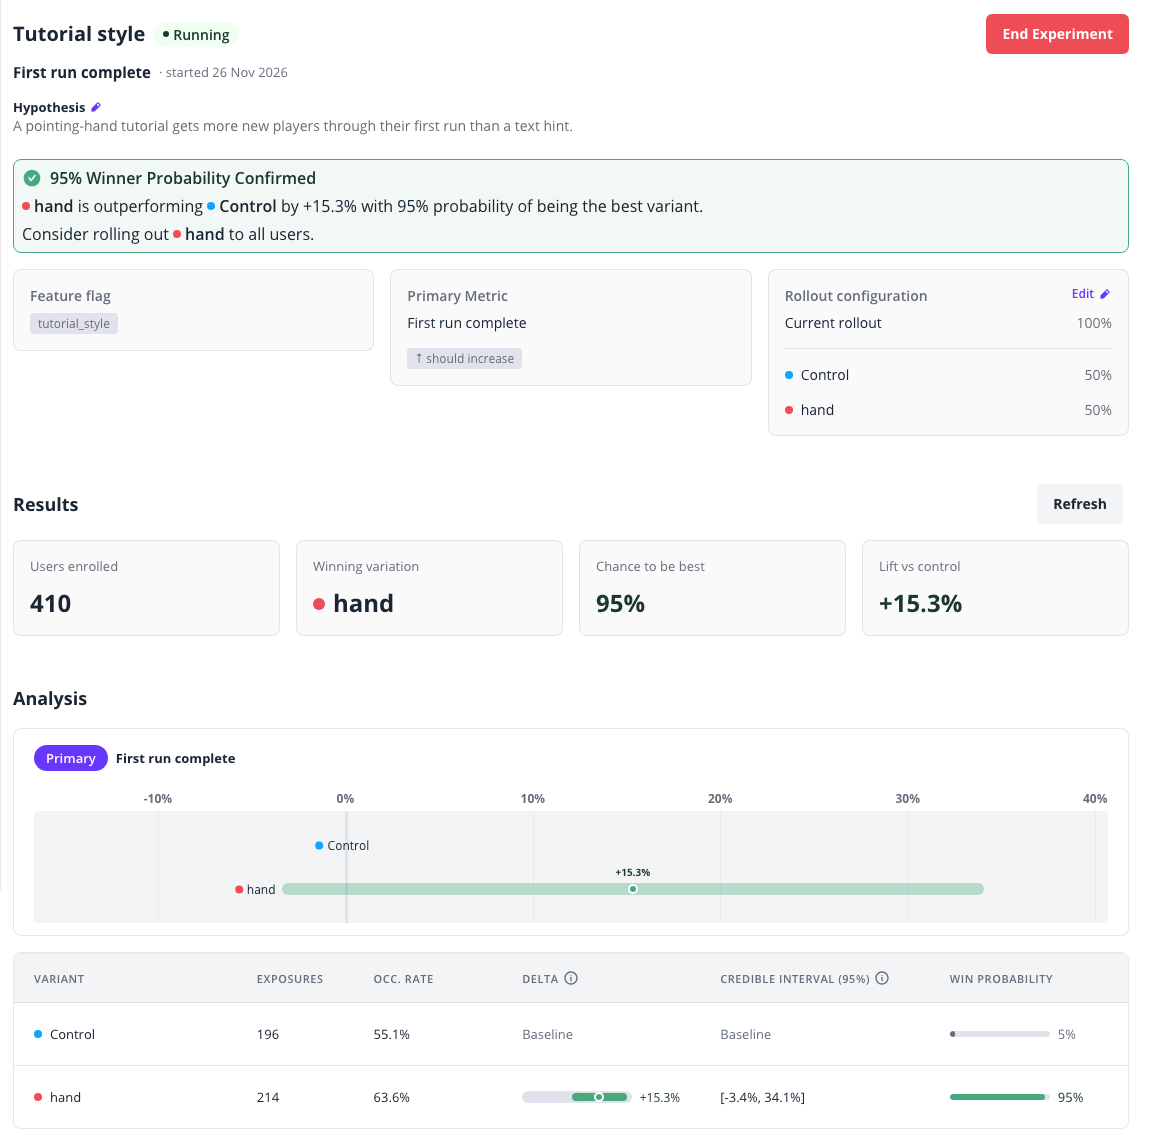
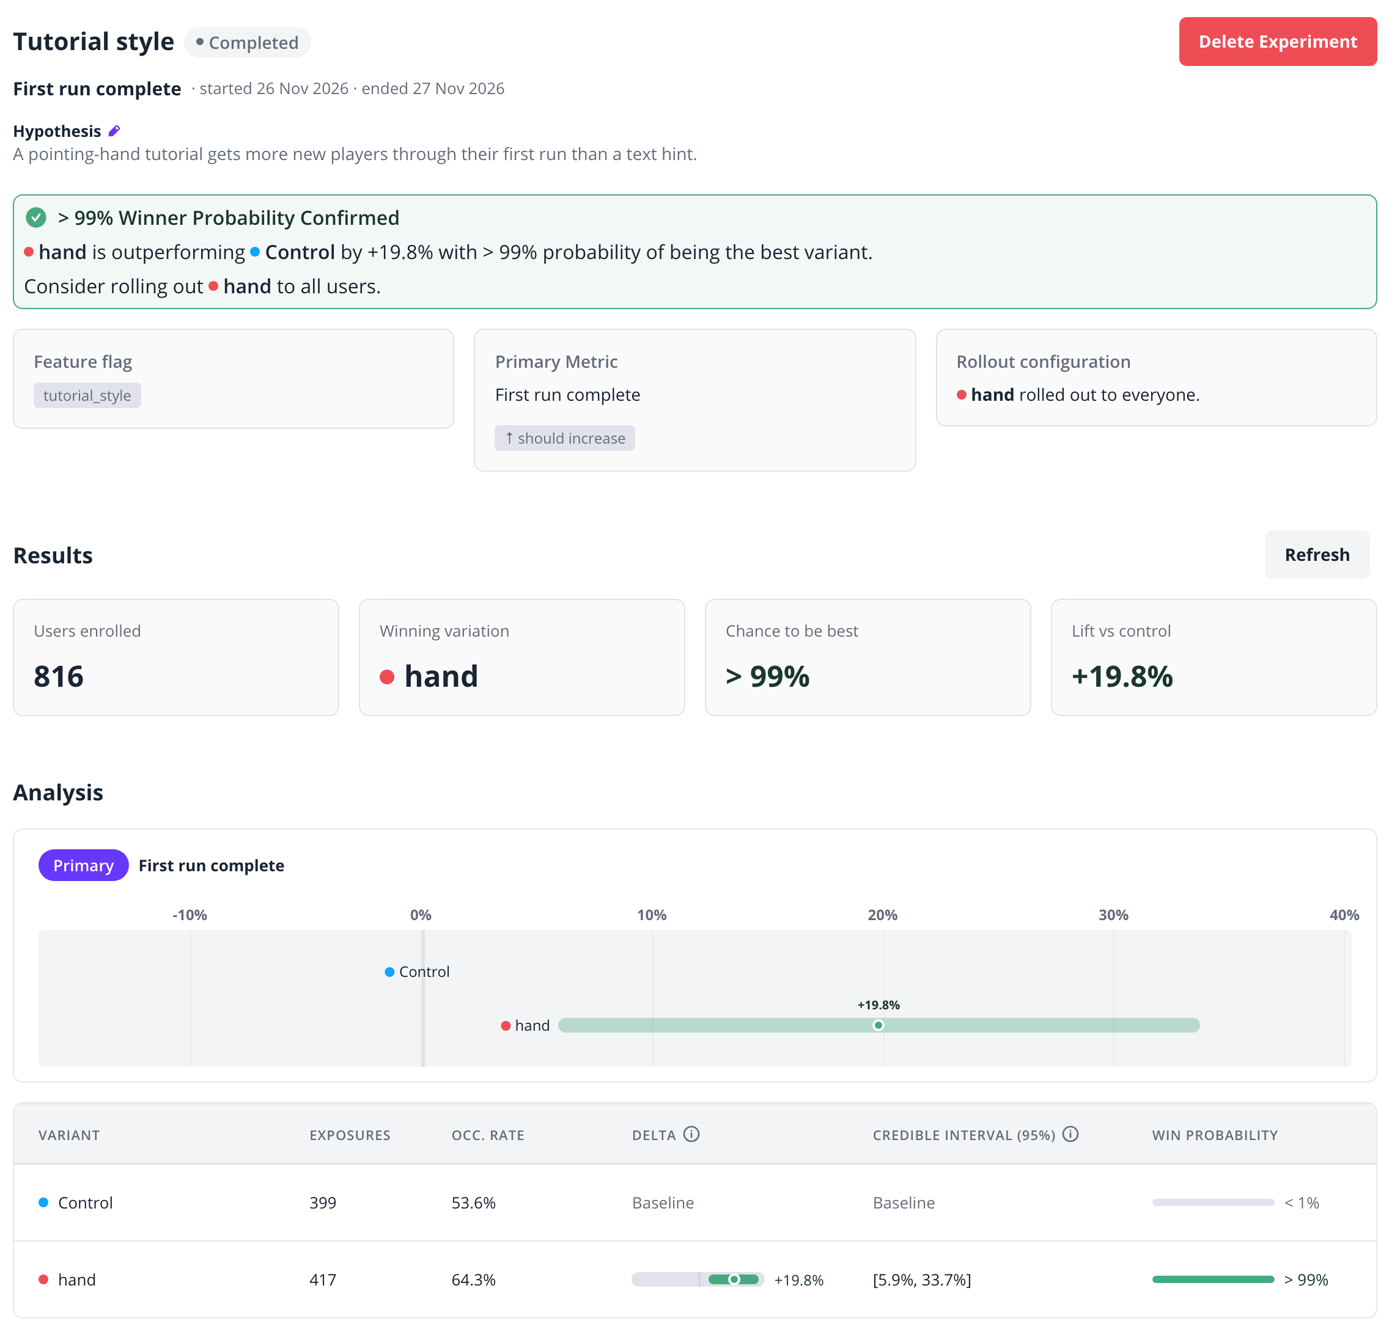
Ship the tutorial experiment under a pre-set rule (agent run), completed-experiment screenshot, updated captions and numbers

diff --git a/site/index.html b/site/index.html
@@ -155,8 +155,8 @@ flagsmith.TrackEvent(<span class="tok-s">"first_run_complete"</span>);</code></p
       <p>Exposures are recorded only for enrolled players, and each one is sent once. Events are batched under the 2 MiB limit, saved to disk when the app pauses and retried after network errors.</p>
     </div>
     <figure class="fig framed">
-      <img src="media/experiment-results.png" width="1150" height="1145" alt="Flagsmith experiment results: the hand variant is 15.3 percent ahead of text with a 95 percent chance to be best" loading="lazy">
-      <figcaption>Self-hosted Flagsmith after 400 synthetic players from <code>server/simulate.py</code>. The lift is simulated on purpose to show the results page. It is not evidence about real players.</figcaption>
+      <img src="media/experiment-results.png" width="1400" height="1330" alt="Flagsmith experiment completed: hand is 19.8 percent ahead of text with over 99 percent chance to be best, and hand is rolled out to everyone" loading="lazy">
+      <figcaption>Self-hosted Flagsmith after 800 synthetic players from <code>server/simulate.py</code>. The rule set beforehand (95% chance to be best, 200+ players per arm) passed, so a coding agent shipped hand to everyone. The lift is simulated on purpose; it says nothing about real players.</figcaption>
     </figure>
   </div>
 </section>

diff --git a/README.md b/README.md
@@ -97,11 +97,11 @@ flagsmith.TrackEvent("first_run_complete");
 flagsmith.TrackEvent("purchase", 4.99, new Dictionary<string, object> { ["item"] = "starter_pack" });
 ```
 
-The dashboard then does the statistics. This is the demo's `tutorial_style` experiment on self-hosted Flagsmith after `server/simulate.py` sent 400 synthetic players through it (named `sim-…`, every event tagged `synthetic: true`). The other 10 enrolled are our own test sessions in the Editor and WebGL:
+The dashboard then does the statistics. This is the demo's `tutorial_style` experiment on self-hosted Flagsmith. We fixed the decision rule before looking: ship a variant at 95% chance to be best with at least 200 players per arm. `server/simulate.py` sent 800 synthetic players (named `sim-…`, every event tagged `synthetic: true`); the other 16 enrolled are our own test sessions. The rule passed, and a coding agent using the [Agent Skill](skills/flagsmith-unity/SKILL.md) shipped `hand` to everyone through the same flag:
 
-![Flagsmith experiment results: hand variant +15.3% lift over control, 95% chance to be best](docs/media/experiment-results.png)
+![Flagsmith experiment completed: hand +19.8% over control, over 99% chance to be best, hand rolled out to everyone](docs/media/experiment-results.png)
 
-*Synthetic data, simulated lift. `simulate.py` gives the hand variant a 62% finish rate and text 50% on purpose, to show the results page working. It is not evidence about real players.*
+*Synthetic data, simulated lift. `simulate.py` gives the hand variant a 62% finish rate and text 50% on purpose, to show the whole loop working: exposures, metric, statistics, then shipping the winner. It is not evidence about real players.*
 
 An exposure is recorded only when the flag is on and the identity is enrolled (`Flag.InExperiment`), so players outside the experiment never skew the results. Each player keeps the same ID between sessions (stored in `PlayerPrefs`), so they stay in the same variant. Set your own ID in the component, for example your account system's user ID, when players sign in on several devices.
 
@@ -134,7 +134,7 @@ Other tools in `server/`:
 |---|---|
 | `python3 flag.py` | Lists every flag and its value |
 | `python3 flag.py run_speed 12` | Sets a value (`on` / `off` toggles a flag) |
-| `python3 simulate.py 400` | Sends 400 synthetic players through the tutorial experiment and refreshes its results |
+| `python3 simulate.py 400 [first]` | Sends 400 synthetic players (IDs from `sim-<first>`) through the tutorial experiment and refreshes its results |
 
 What to try while it runs:
 

diff --git a/com.flagsmith.unity/Documentation~/index.md b/com.flagsmith.unity/Documentation~/index.md
@@ -170,11 +170,11 @@ Details that matter for clean results:
 - Event names starting with `$` are reserved, and `TrackEvent` throws for them.
 - `value` is sent as text (numbers with the invariant culture). `metadata` is any JSON-serialisable dictionary. The client adds `sdk_version`.
 
-After enough players, the experiment's page in Flagsmith shows the result:
+After enough players, the experiment's page in Flagsmith shows the result. Here the rule was set beforehand (ship at 95% chance to be best with 200+ players per arm), it passed, and the experiment was completed with hand rolled out to everyone:
 
-![Flagsmith experiment results: the hand variant 15.3 percent ahead of text, 95 percent chance to be best](../../docs/media/experiment-results.png)
+![Flagsmith experiment completed: hand 19.8 percent ahead of text, over 99 percent chance to be best, rolled out to everyone](../../docs/media/experiment-results.png)
 
-*Self-hosted Flagsmith after `server/simulate.py` sent 400 synthetic players through the demo experiment. The lift is simulated on purpose to show the page working; it says nothing about real players.*
+*Self-hosted Flagsmith after `server/simulate.py` sent 800 synthetic players through the demo experiment. The lift is simulated on purpose to show the loop working; it says nothing about real players.*
 
 ### Delivery
 
@@ -342,7 +342,7 @@ To record or present it hands-free, press **A** in the game so it plays itself, 
 | `python3 flag.py` | Lists every flag and its value |
 | `python3 flag.py run_speed 12` | Sets a value (`on` / `off` toggles a flag) |
 | `python3 demo.py` | Runs the scripted live-tuning timeline |
-| `python3 simulate.py 400` | Sends 400 synthetic players through the tutorial experiment and refreshes its results |
+| `python3 simulate.py 400 [first]` | Sends 400 synthetic players (IDs from `sim-<first>`) through the tutorial experiment and refreshes its results |
 
 > This setup is for local demos only. It uses the default secrets from Flagsmith's compose file, allows any host, and `seed.py` creates an admin with a fixed password. For a real deployment, follow [Flagsmith's self-hosting guide](https://docs.flagsmith.com/deployment-self-hosting).
 
